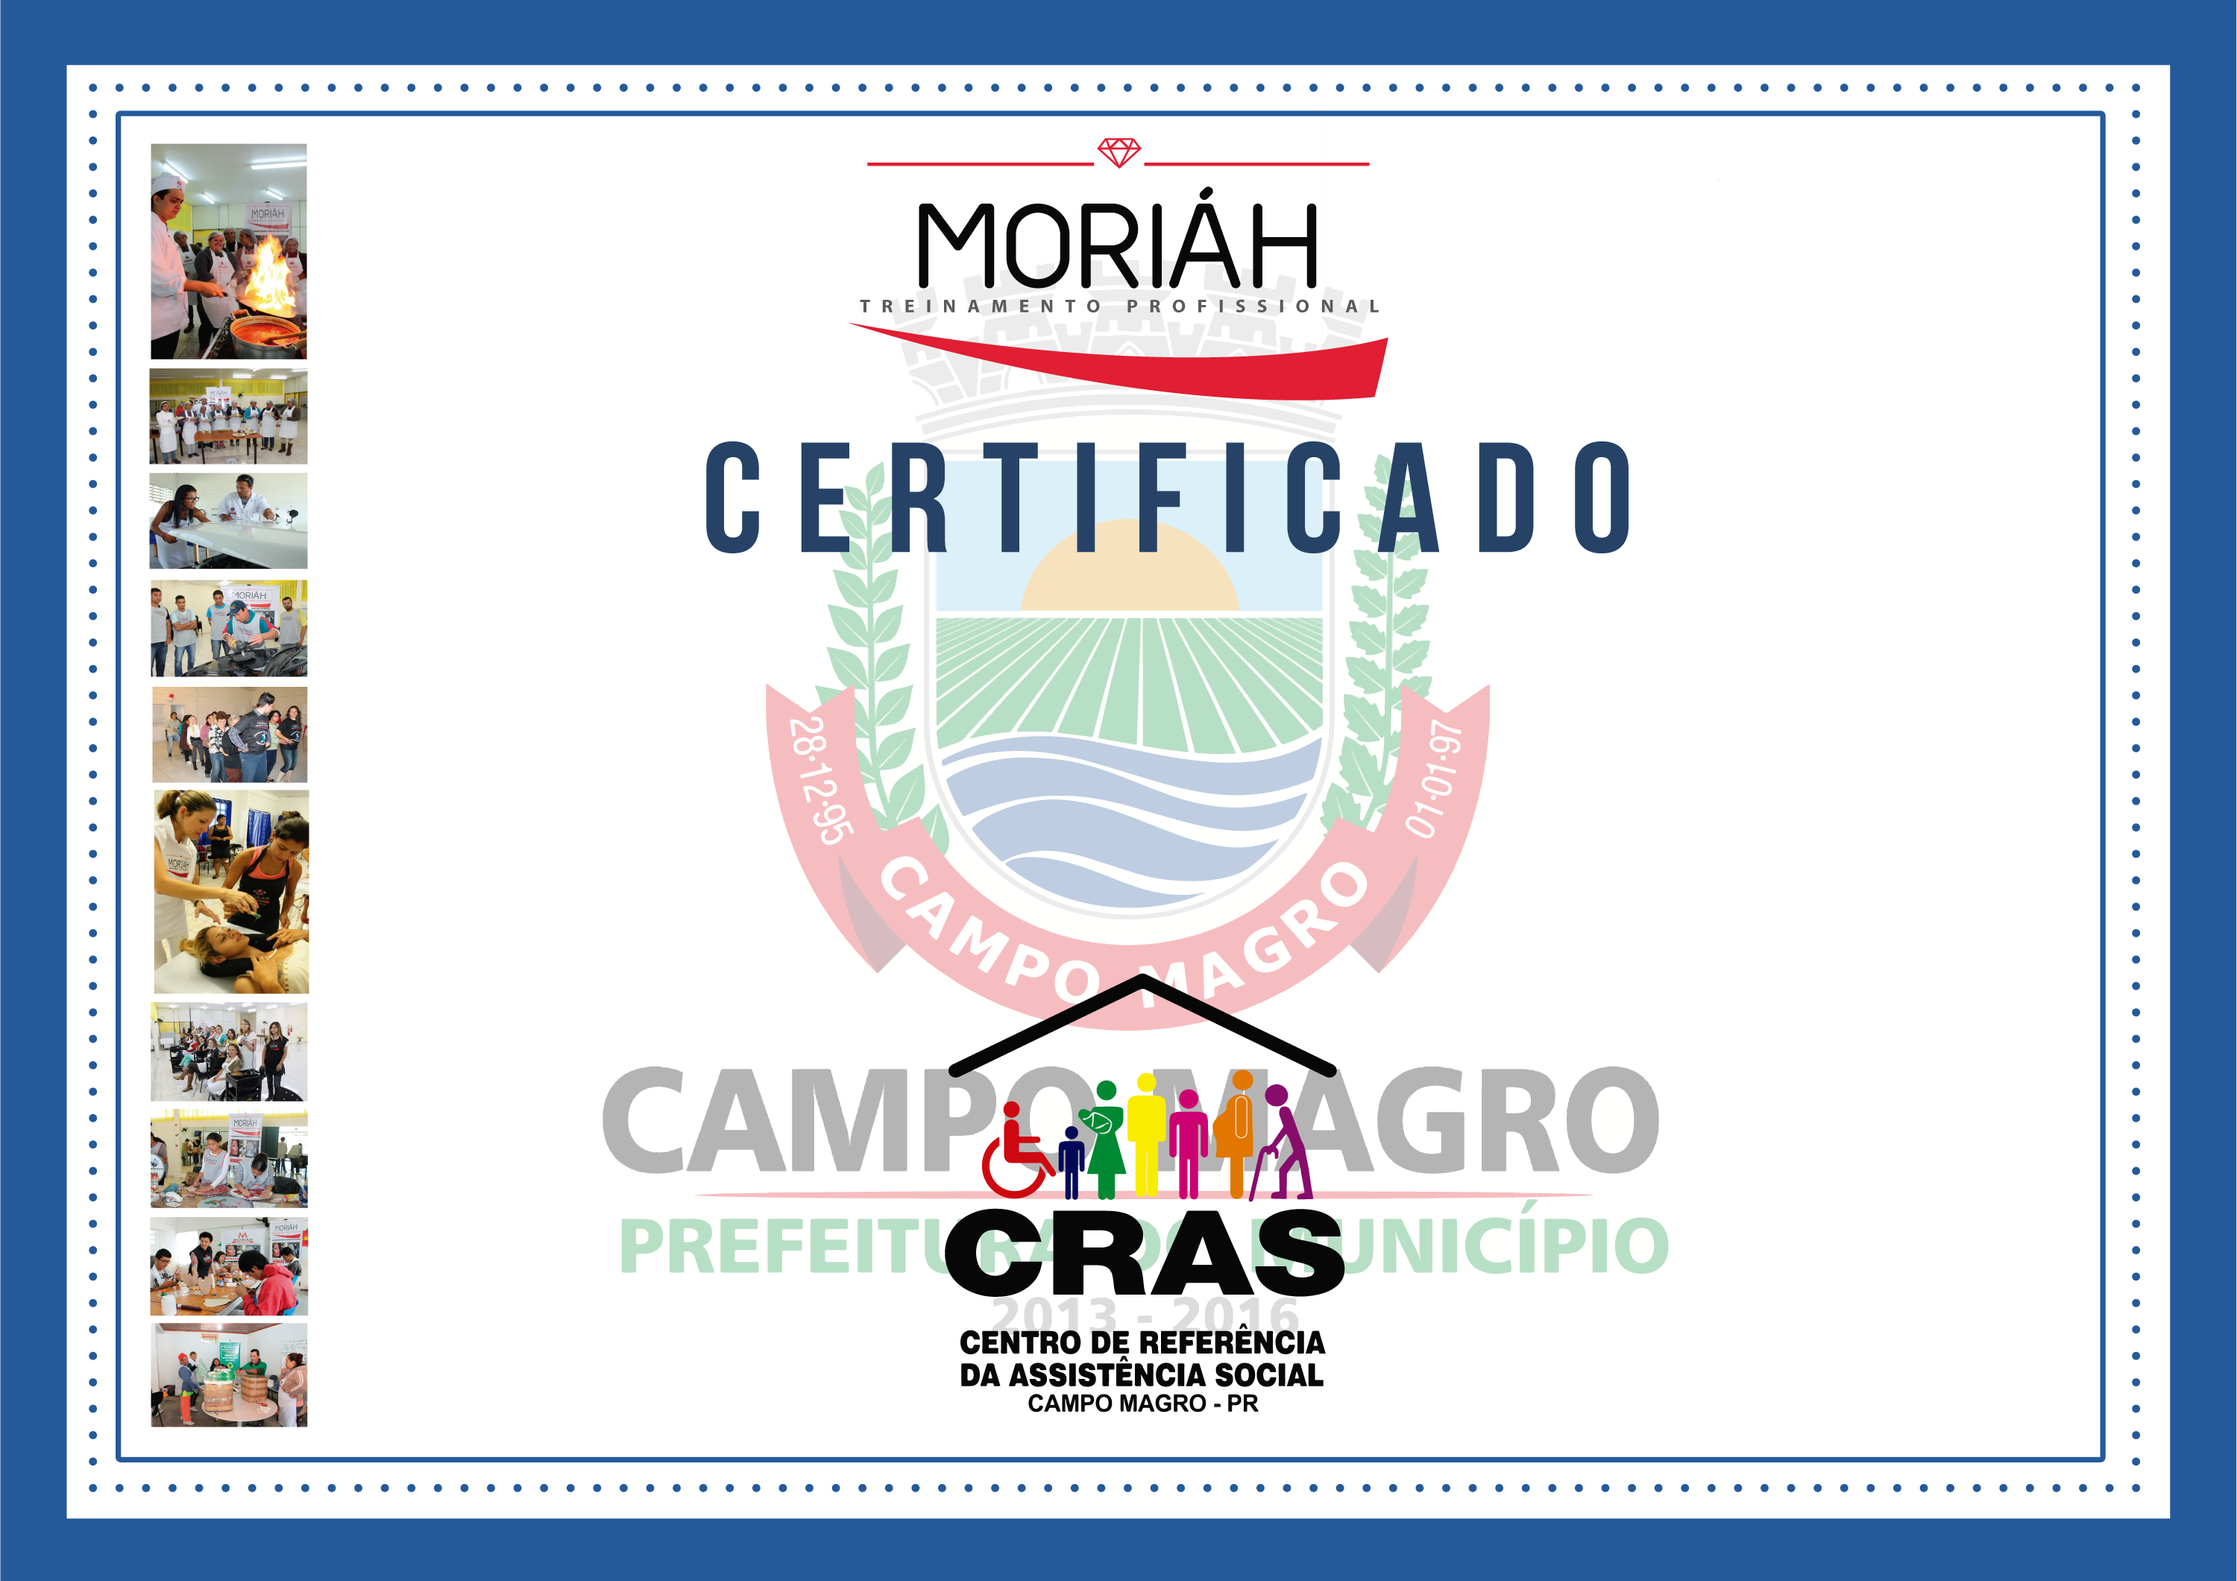
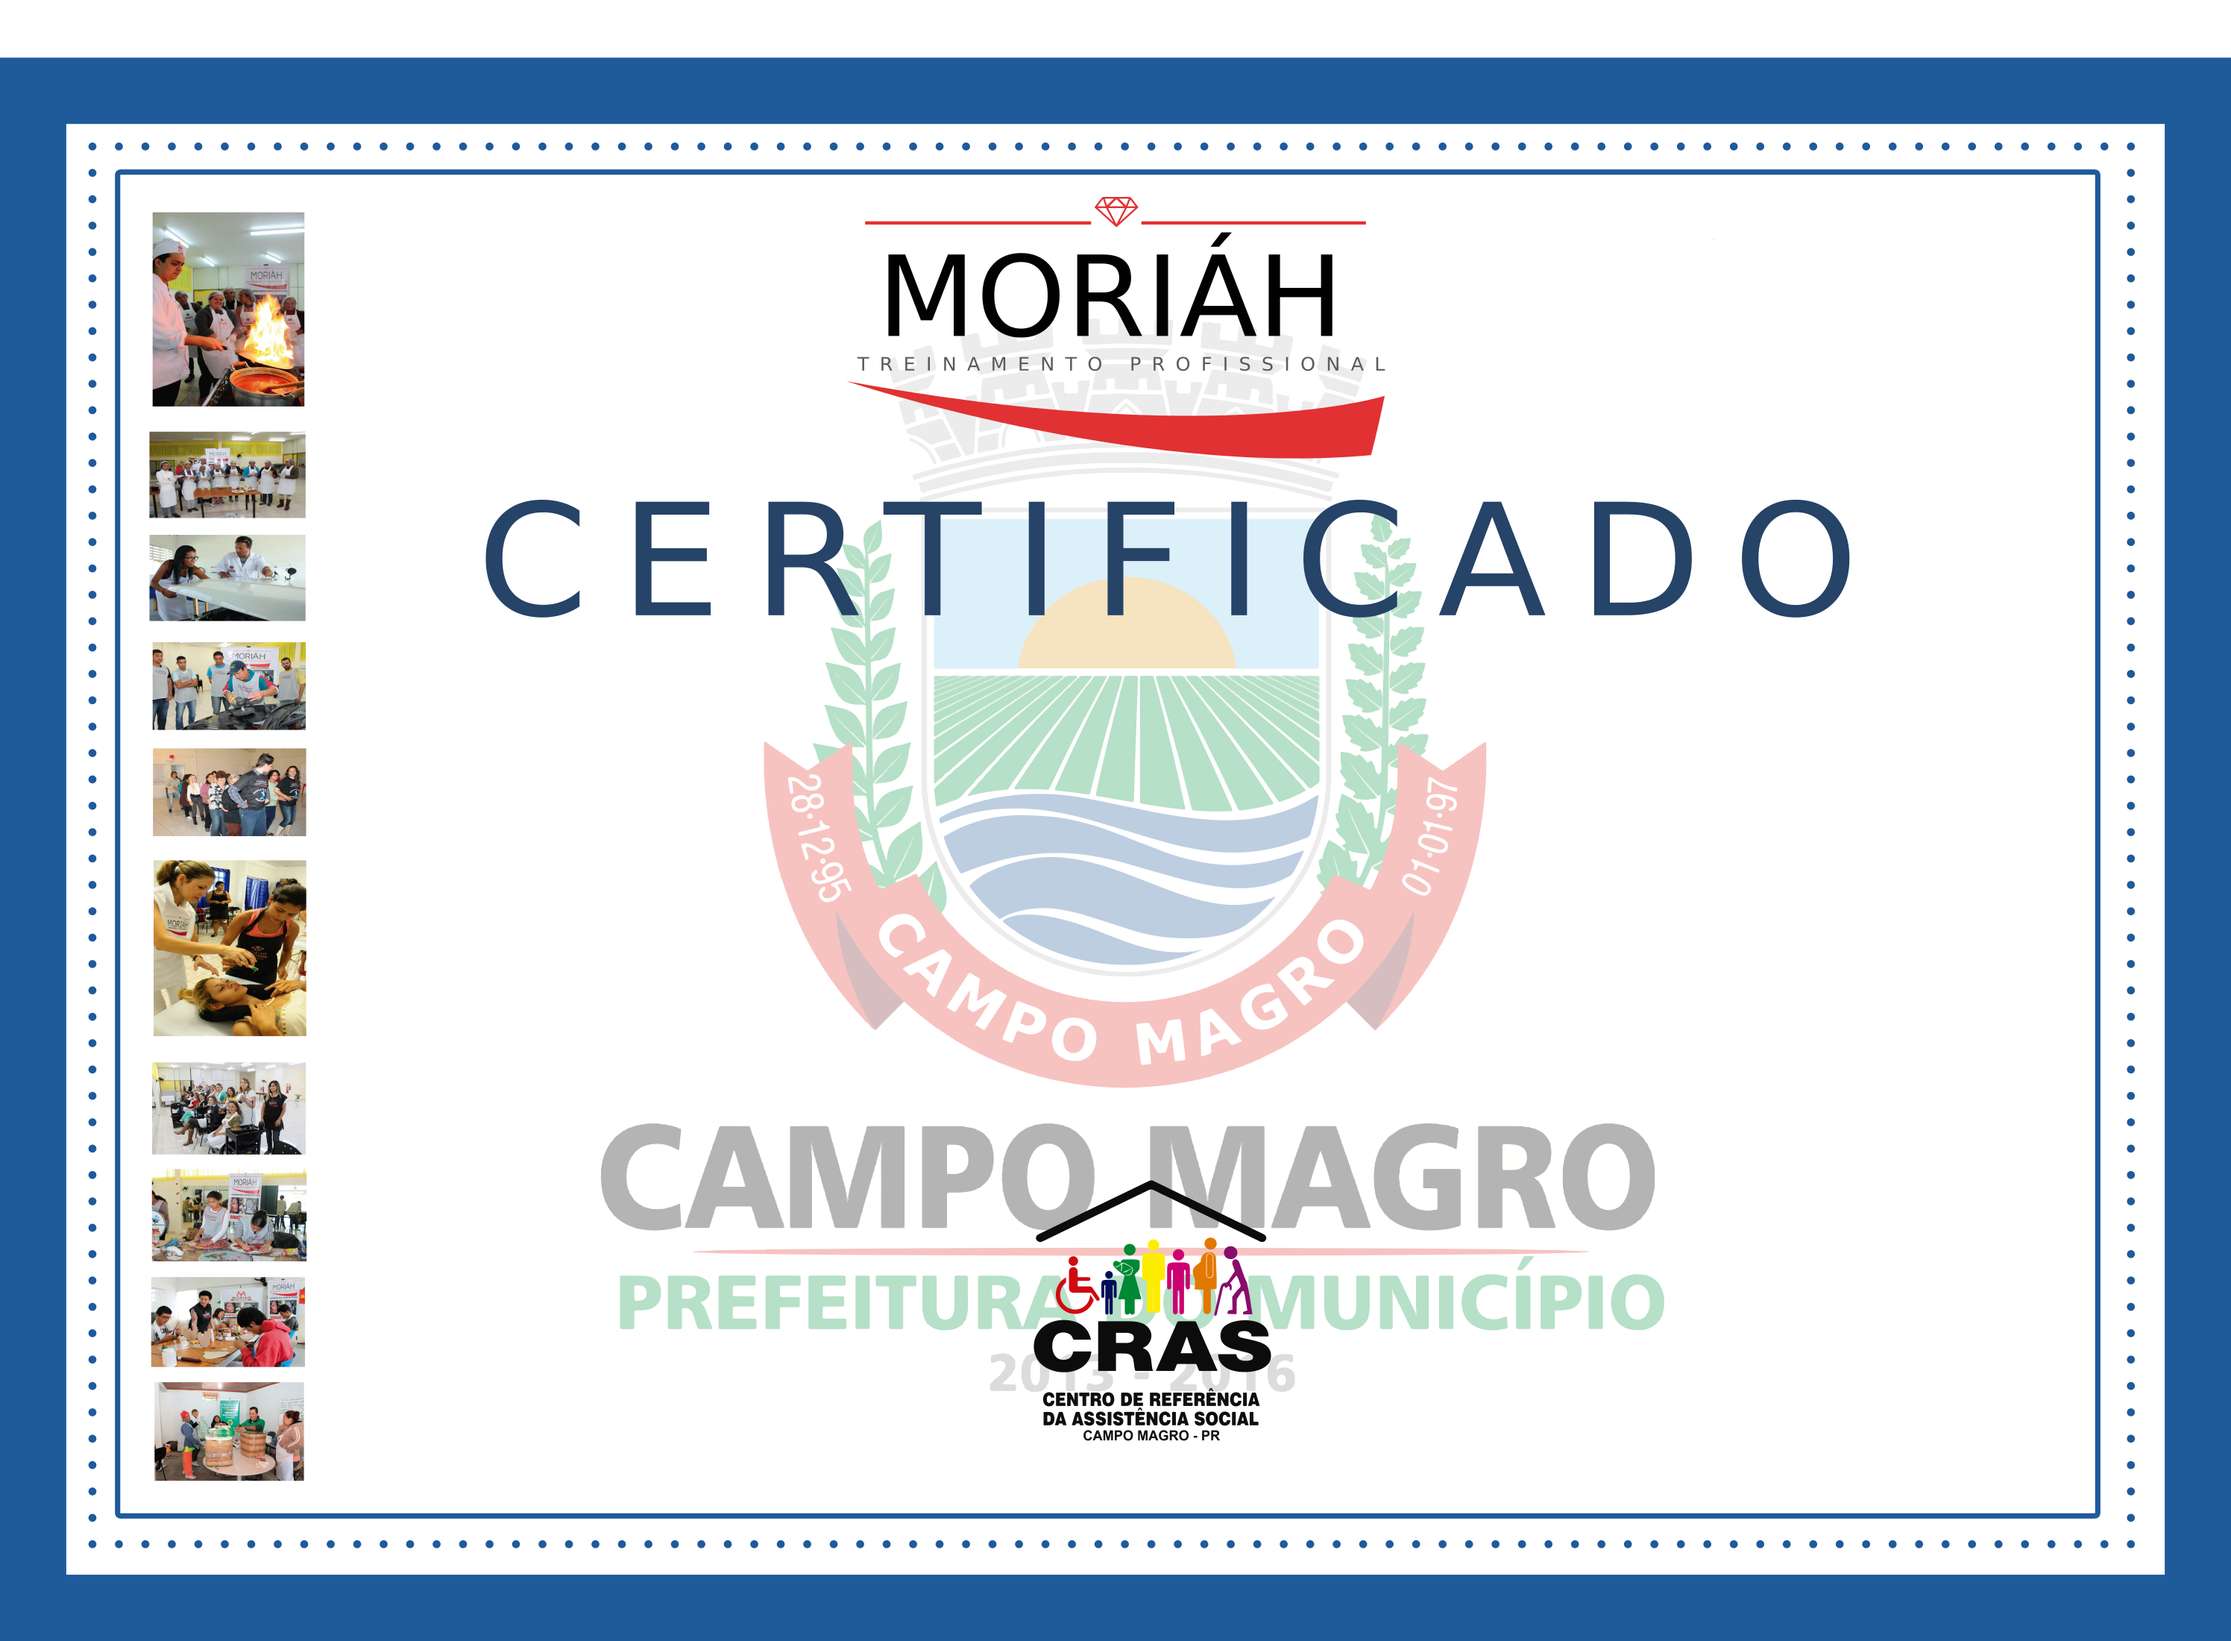
Versão 1.0.4

diff --git a/gerador_de_certificados.php b/gerador_de_certificados.php
@@ -47,12 +47,12 @@ imagettftext($jpg_image, 130, 0, 700, 1030, $cor, $fonte_nome, $nome_aluno);
 imagettftext($jpg_image, 45, 0, 800, 1200, $cor, $fonte_padrao, $declaracao_part_1);
 imagettftext($jpg_image, 45, 0, 800, 1270, $cor, $fonte_padrao, $declaracao_part_2);
 imagettftext($jpg_image, 35, 0, 2000, 1400, $cor, $fonte_padrao, $local_e_data);
-imagettftext($jpg_image, 35, 0, 500, 1700, $cor, $fonte_padrao, '_____________________________');
-imagettftext($jpg_image, 35, 0, 500, 1770, $cor, $fonte_padrao, $assinatura_1_nome);
-imagettftext($jpg_image, 35, 0, 500, 1820, $cor, $fonte_padrao, $assinatura_1_funcao);
-imagettftext($jpg_image, 35, 0, 1900, 1700, $cor, $fonte_padrao, '_____________________________');
-imagettftext($jpg_image, 35, 0, 1900, 1770, $cor, $fonte_padrao, $assinatura_2_nome);
-imagettftext($jpg_image, 35, 0, 1900, 1820, $cor, $fonte_padrao, $assinatura_2_funcao);
+imagettftext($jpg_image, 35, 0, 500, 1810, $cor, $fonte_padrao, '_____________________________');
+imagettftext($jpg_image, 35, 0, 500, 1880, $cor, $fonte_padrao, $assinatura_1_nome);
+imagettftext($jpg_image, 35, 0, 500, 1930, $cor, $fonte_padrao, $assinatura_1_funcao);
+imagettftext($jpg_image, 35, 0, 1900, 1810, $cor, $fonte_padrao, '_____________________________');
+imagettftext($jpg_image, 35, 0, 1900, 1880, $cor, $fonte_padrao, $assinatura_2_nome);
+imagettftext($jpg_image, 35, 0, 1900, 1930, $cor, $fonte_padrao, $assinatura_2_funcao);
 
 // HEADER PARA FORÇAR O DOWNLAOD DA IMAGEM
 $nome_aluno_limpo = strtolower ($nome_aluno_limpo);
